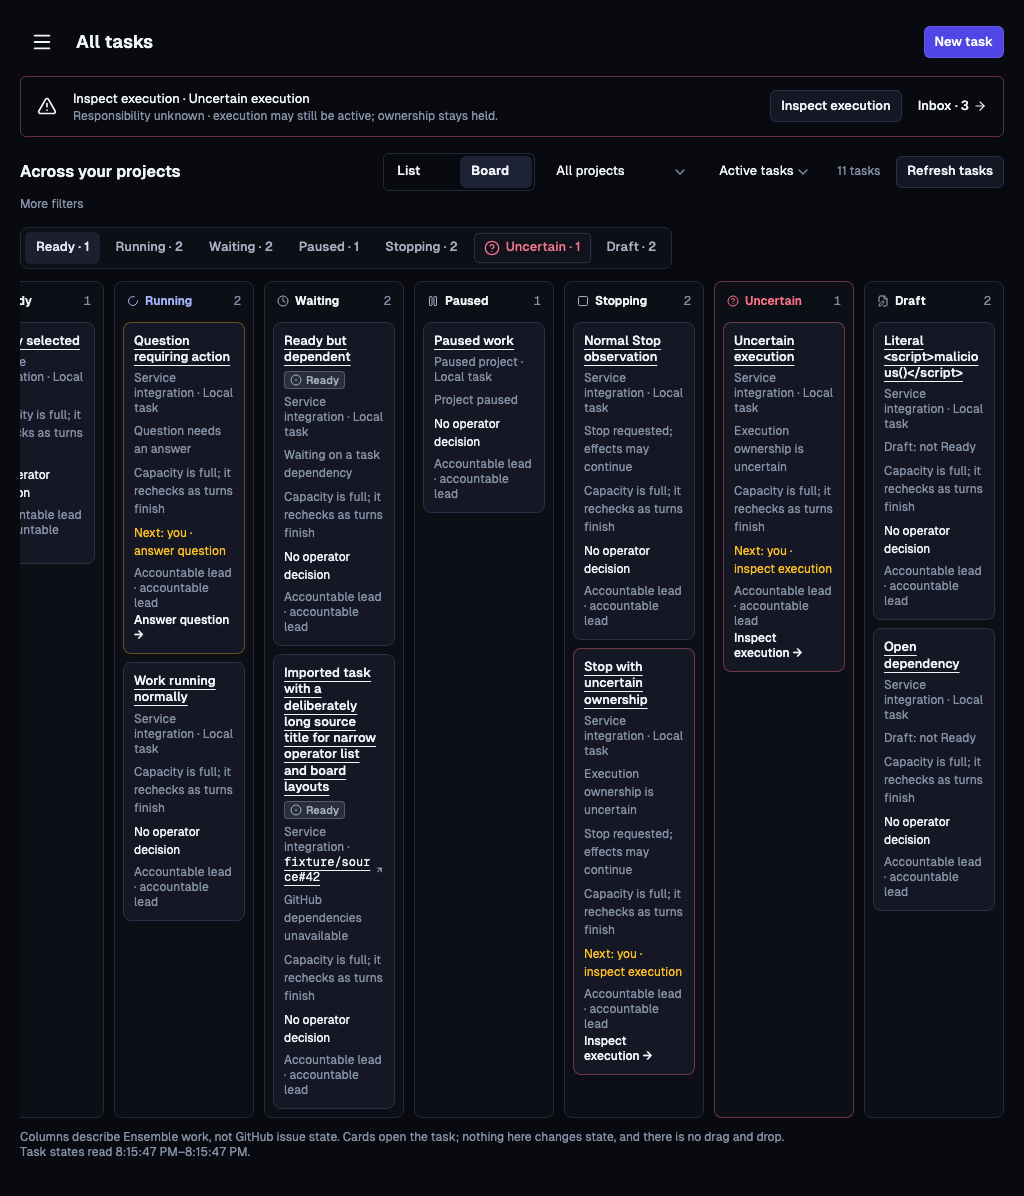
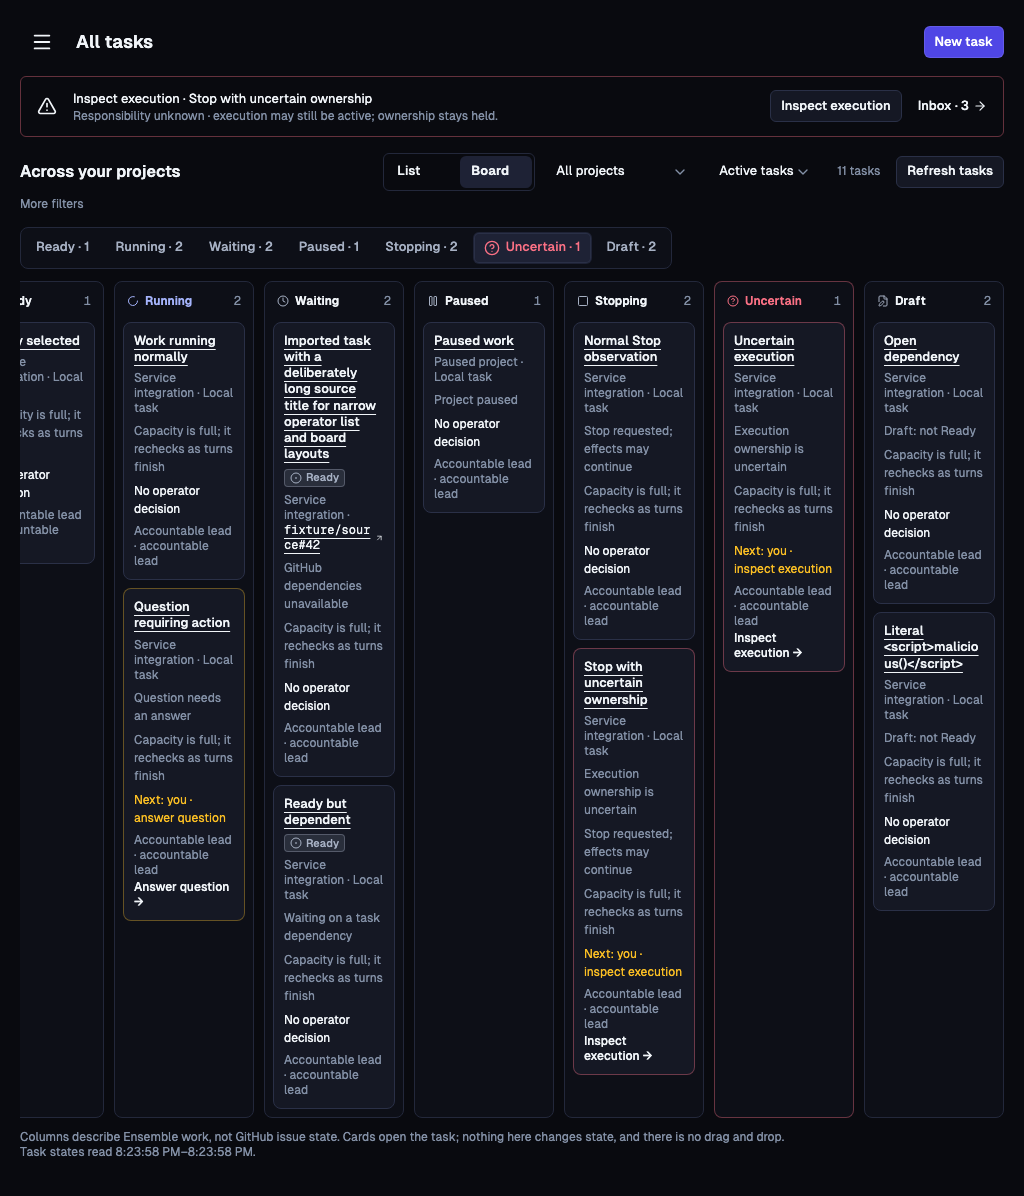
Settle Board evidence captures and assert the Uncertain column border

diff --git a/web/src/task-views.tsx b/web/src/task-views.tsx
@@ -271,29 +271,28 @@ export function TaskBoard({
         role="toolbar"
         aria-label="Board columns"
       >
-        {columns.map((column, index) => (
-          <Button
-            key={column}
-            type="button"
-            variant="ghost"
-            className="column-tab"
-            aria-pressed={selected === index}
-            data-attention={
-              column === "Uncertain" && counts[column] ? "true" : undefined
-            }
-            onClick={() => {
-              setSelected(index);
-              document
-                .getElementById(`column-${column}`)
-                ?.scrollIntoView({ block: "nearest", inline: "start" });
-            }}
-          >
-            {column === "Uncertain" && counts[column] > 0 && (
-              <CircleQuestionMark aria-hidden="true" />
-            )}
-            {column} · {counts[column]}
-          </Button>
-        ))}
+        {columns.map((column, index) => {
+          const risky = column === "Uncertain" && counts[column] > 0;
+          return (
+            <Button
+              key={column}
+              type="button"
+              variant="ghost"
+              className="column-tab"
+              aria-pressed={selected === index}
+              data-attention={risky ? "true" : undefined}
+              onClick={() => {
+                setSelected(index);
+                document
+                  .getElementById(`column-${column}`)
+                  ?.scrollIntoView({ block: "nearest", inline: "start" });
+              }}
+            >
+              {risky && <CircleQuestionMark aria-hidden="true" />}
+              {column} · {counts[column]}
+            </Button>
+          );
+        })}
       </div>
       <div
         className="board-columns"

diff --git a/test/operator/operator-work-browser.test.ts b/test/operator/operator-work-browser.test.ts
@@ -1394,6 +1394,10 @@ test("board cards follow the frame's anatomy", async (_t, journey) => {
     await style(page, "#column-Uncertain .board-column-name", "color"),
     await resolved(page, "color", "var(--risk)"),
   );
+  assert.equal(
+    await style(page, "#column-Uncertain", "border-top-color"),
+    await resolved(page, "border-top-color", "var(--risk-border)"),
+  );
 
   // Imported identity in mono, opening GitHub in a new tab.
   const source = page
@@ -1536,6 +1540,10 @@ test("board columns share one 1366 screen, collapse to rails and scroll only ins
         .getBoundingClientRect();
     return column.left >= board.left - 1 && column.right <= board.right + 1;
   });
+  // Tabs transition their colours; capture the settled selection.
+  const settled = () =>
+    page.waitForFunction(() => document.getAnimations().length === 0);
+  await settled();
   await shot(page, "1024-board");
 
   // (e) Phone: selected tab and Uncertain tones, 44px targets and the footer sentence.
@@ -1580,6 +1588,7 @@ test("board columns share one 1366 screen, collapse to rails and scroll only ins
     .locator(`[data-task-id="${ids.uncertain.id}"] .task-state`)
     .getByText("Uncertain")
     .waitFor();
+  await settled();
   await shot(page, "390-board-uncertain-chip");
 
   // (f) Overview's Board sits in its work panel and keeps the List's task IDs.

diff --git a/test/operator/operator-work-presentation.test.ts b/test/operator/operator-work-presentation.test.ts
@@ -188,7 +188,6 @@ test("the operator is next only while an attention code names them", () => {
   assert.equal(operatorNext(summary({ codes: ["question"] })), true);
   assert.equal(operatorNext(summary({ codes: ["approval"] })), true);
   assert.equal(operatorNext(summary()), false);
-  assert.equal(operatorNext(summary({ state: "done" })), false);
 });
 
 test("source summaries only accept https links", () => {

diff --git a/docs/evidence/ui-workbench-board.md b/docs/evidence/ui-workbench-board.md
@@ -31,10 +31,6 @@ not content.
 | [390-board-waiting.png](ui-workbench/390-board-waiting.png) | `25-phone-board-waiting` | One column, the three-column 44px tab grid with Uncertain in rose, Ready chips on held Ready work, in-flow Previous/Next |
 | [390-board-uncertain.png](ui-workbench/390-board-uncertain.png) | `25b-phone-board-uncertain` | The Uncertain column with its rose border, the card's phone-only "Uncertain" chip and "Next: you · inspect execution" |
 
-The 1024 and 390 captures are taken just after a tab click, so the previously
-selected tab can still show its fading fill; the tests assert the settled
-`aria-pressed` state and colours.
-
 ## Deliberate differences from the frames
 
 - A Draft column follows Uncertain; the frames do not draw it.
